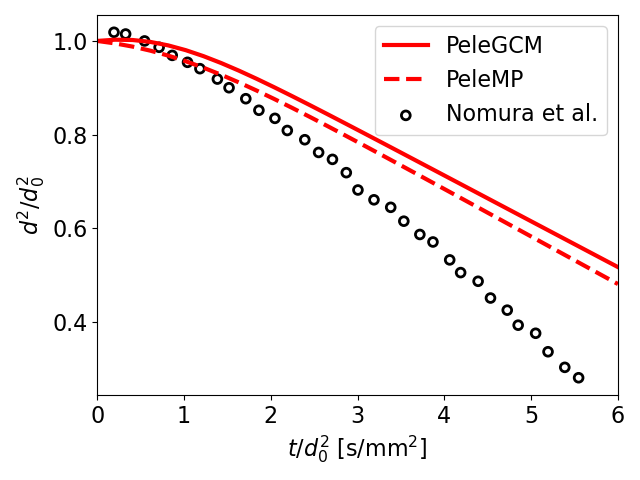
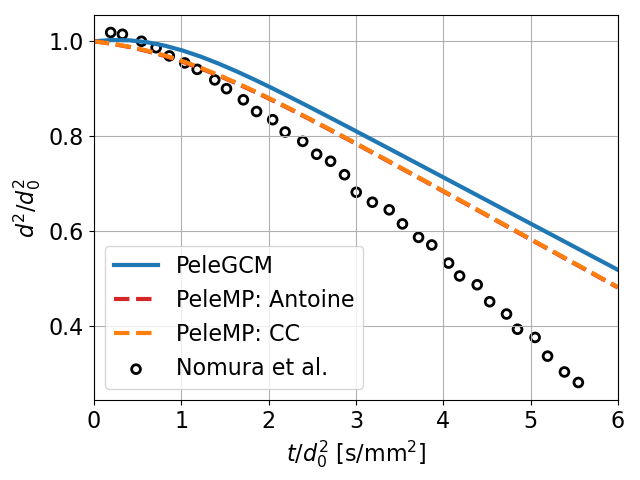
Update figs in docs

diff --git a/Docs/sphinx/Spray.rst b/Docs/sphinx/Spray.rst
@@ -562,13 +562,13 @@ Spray Validation
 Single Droplet Tests
 --------------------
 
-Single droplet tests are performed in 2D with PeleLMeX and compared with experimental results published in literature. These tests are setup in ``PeleLMeX/Exec/RegTests/SingleDropEvap`` and can be compiled with ``SPRAY_GCM=TRUE`` or ``FALSE``. To run a test case with the *PeleMP* or *GCM* liquid properties, simply open ``Validate.py`` and set the ``LiqPropsType`` and case name from the table below, for example ::
+Single droplet tests are performed in 2D with PeleLMeX and compared with experimental results published in literature. These tests are setup in ``PeleLMeX/Exec/RegTests/SingleDropEvap`` and can be compiled with ``SPRAY_GCM=TRUE`` or ``FALSE``. To run a test case with the *PeleMP* or *GCM* liquid properties, simply open ``Validate.py`` and set the variables for ``case_name``, ``LiqPropsType``, and the method for calculating :math:`p_{\rm sat}` for the PeleMP model. For example ::
 
-   # Liquid properties model: "mp" or "gcm"
-   LiqPropsType = "mp" 
+   case_name = "WongLin"
+   LiqPropsType = "gcm"
 
-   # Case object
-   case = WongLin(LiqPropsType)
+   # Psat model for PeleMP: "Antoine" or "Clasius-Clapeyron"
+   PeleMP_PsatModel = "Antoine"
 
 then run ``python Validate.py``.
 The following table details the parameters of each test:
@@ -589,11 +589,13 @@ The following table details the parameters of each test:
    |``RungeDec``,  |                 |                 |                 |                 |                       |decane,          |                 |
    |``RungeMix``   |                 |                 |                 |                 |                       |mix              |                 |
    +---------------+-----------------+-----------------+-----------------+-----------------+-----------------------+-----------------+-----------------+
+   |``RungeJP8``   |294.15           |1.01325          |294.15           |636              |3.0                    |POSF10264        |[#runge]_        |
+   +---------------+-----------------+-----------------+-----------------+-----------------+-----------------------+-----------------+-----------------+
 
 
 .. figure:: /Visualization/nomura_res_2025.png
    :align: center
-   :figwidth: 40%
+   :figwidth: 45%
 
    Heptane droplet diameter comparisons with Nomura et al. [#nomura]_
 
@@ -614,6 +616,12 @@ The following table details the parameters of each test:
    :figwidth: 80%
 
    Droplet evaporation of heptane, decane, and a binary mixture of heptane and decane compared to experimental measurements from with Runge et al. [#runge]_
+
+.. figure:: /Visualization/runge_jp8_res_2025.png
+   :align: center
+   :figwidth: 45%
+
+   Droplet evaporation of POSF10264 (JP8) compared to experimental measurements from with Runge et al. Note that all three cases represent a multicomponent fuel with a single liquid-phase and single gas-phase species.  [#runge]_
 
 .. [#owen] "PeleMP: The Multiphysics Solver for the Combustion Pele Adaptive Mesh Refinement Code Suite," L. D. Owen, W. Ge, M. Rieth, M. Arienti, L. Esclapez, B. S. Soriano, M. E. Mueller, M. Day, R. Sankaran, and J. H. Chen, J. Fluids Eng., vol. 146, no. 4, pp. 1-18 (2024), doi: `10.1115/1.4064494 <https://doi.org/10.1115/1.4064494>`_.
 
